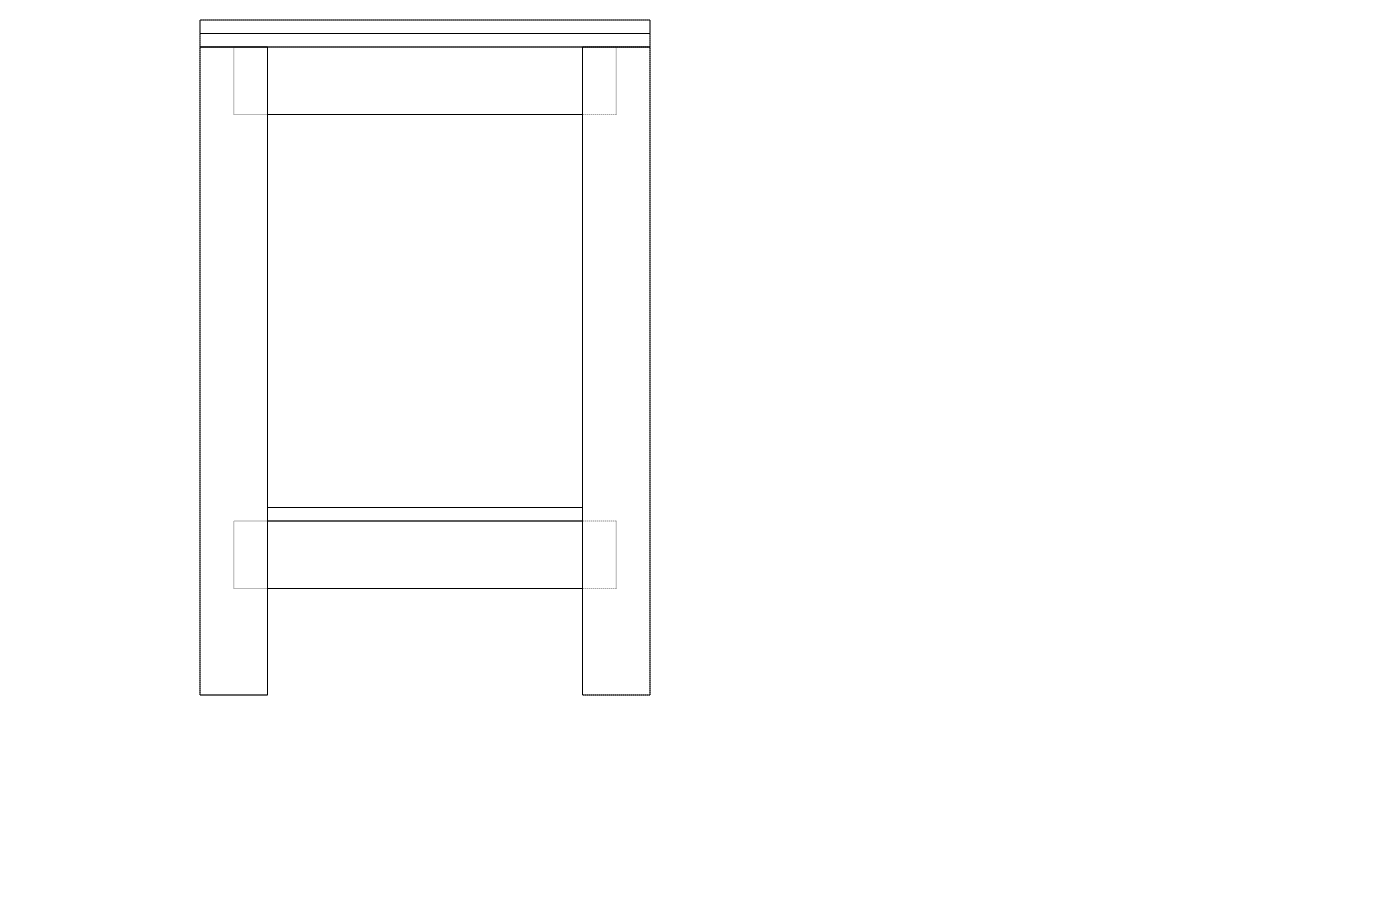
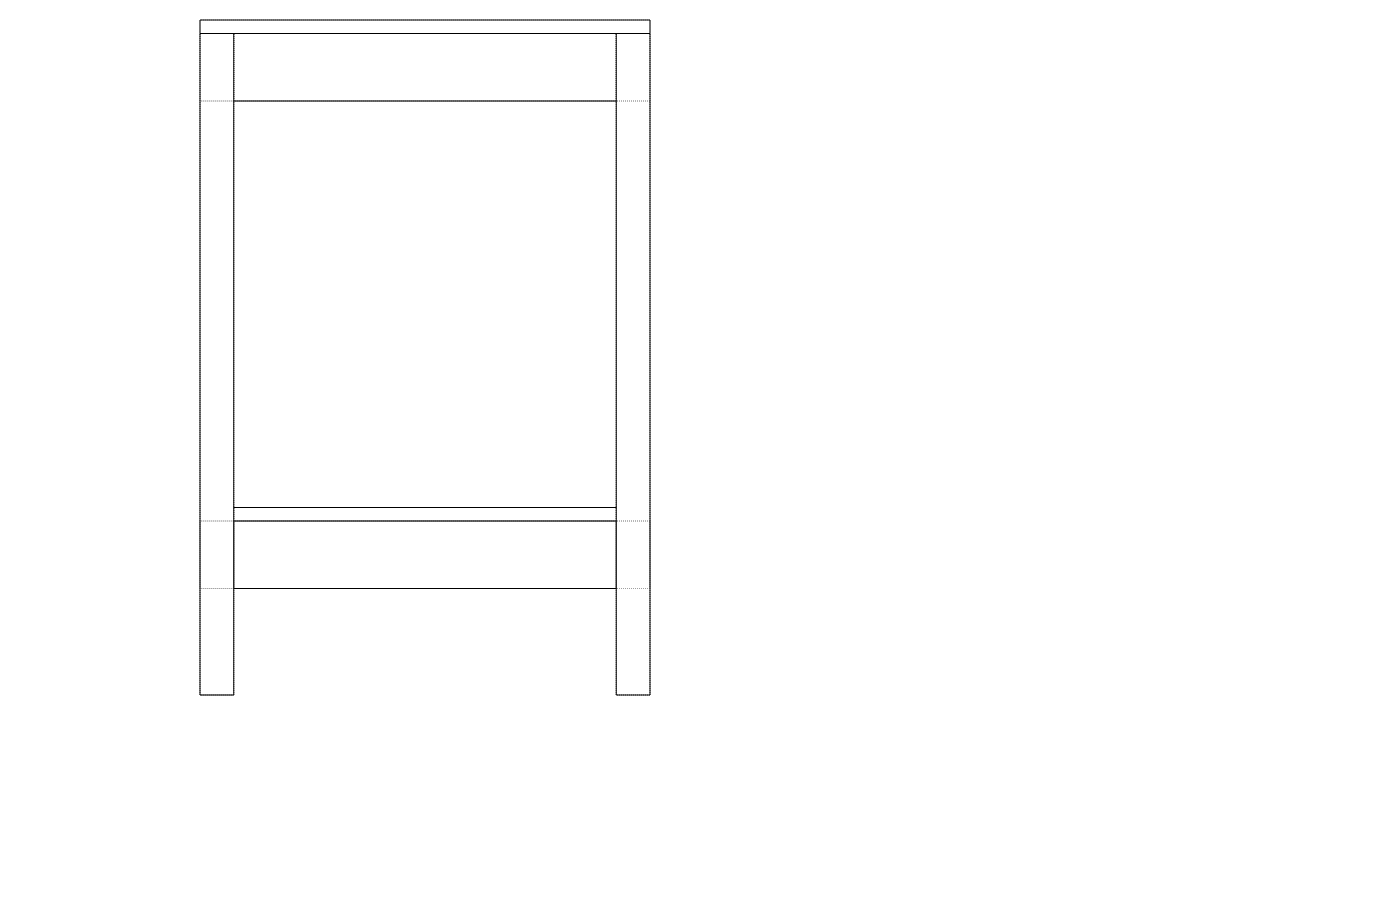
deploy: cc3b51746708132df6c7bf1f8e4cb72a0fdb2aba

diff --git a/pr-3/garage-workbench/index.html b/pr-3/garage-workbench/index.html
@@ -130,7 +130,7 @@ figure img { width: 100%; height: auto; display: block; background: #fff; }
 <body>
   <p class="back"><a href="../">← All Projects</a></p>
   <h2>Garage Workbench</h2>
-  <p class="meta">Generated 2026-05-01 09:24 UTC</p>
+  <p class="meta">Generated 2026-05-01 09:40 UTC</p>
   <div class="views">
     <figure>
       <figcaption>Isometric</figcaption>
@@ -168,11 +168,11 @@ figure img { width: 100%; height: auto; display: block; background: #fff; }
       <th class="num">Subtotal</th>
     </tr>
   </thead>
-  <tbody><tr><td>90×90 mm hardwood legs (e.g. Victorian ash) 900 mm</td><td class='num'>4</td><td>each</td><td class='num'>$12.50</td><td class='num'>$50.00</td></tr><tr><td>90×45 mm pine framing</td><td class='num'>9</td><td>meters</td><td class='num'>$4.20</td><td class='num'>$37.80</td></tr><tr><td>18 mm structural plywood 2400×1200</td><td class='num'>2</td><td>each</td><td class='num'>$68.00</td><td class='num'>$136.00</td></tr><tr><td>Pocket screws 50 mm box/100</td><td class='num'>1</td><td>box</td><td class='num'>$12.00</td><td class='num'>$12.00</td></tr><tr><td>PVA wood glue 1 L</td><td class='num'>1</td><td>each</td><td class='num'>$9.50</td><td class='num'>$9.50</td></tr><tr><td>Danish oil 500 mL</td><td class='num'>1</td><td>each</td><td class='num'>$18.00</td><td class='num'>$18.00</td></tr></tbody>
+  <tbody><tr><td>90×45 H3.2 structural pine (DAR) — legs, aprons, stretchers</td><td class='num'>13</td><td>meters</td><td class='num'>$4.20</td><td class='num'>$54.60</td></tr><tr><td>18mm F8 structural plywood 2400×1200 — top and shelf</td><td class='num'>2</td><td>sheets</td><td class='num'>$72.00</td><td class='num'>$144.00</td></tr><tr><td>M10×100 hex-head coach screws (pack 50)</td><td class='num'>1</td><td>pack</td><td class='num'>$38.00</td><td class='num'>$38.00</td></tr><tr><td>75mm construction screws (box 100) — top and shelf</td><td class='num'>1</td><td>box</td><td class='num'>$14.00</td><td class='num'>$14.00</td></tr><tr><td>PVA wood glue 1L</td><td class='num'>1</td><td>each</td><td class='num'>$12.00</td><td class='num'>$12.00</td></tr></tbody>
   <tfoot>
     <tr>
       <td colspan="4">Total</td>
-      <td class="num">$263.30</td>
+      <td class="num">$262.60</td>
     </tr>
   </tfoot>
 </table>
@@ -180,22 +180,22 @@ figure img { width: 100%; height: auto; display: block; background: #fff; }
 <div class="build-plan"><h2>Tools required</h2>
 <h3>Power tools</h3>
 <ul>
-<li>Circular saw or table saw (ripping plywood and dimensioning framing)</li>
-<li>Pocket-hole jig (e.g. Kreg K4 or K5) + drill/driver</li>
-<li>Random orbital sander (80 / 120 / 180 grit)</li>
-<li>Drill press or handheld drill (pilot holes, countersinks)</li>
+<li>Drill/driver (pilot holes and driving coach screws)</li>
+<li>Circular saw or jigsaw (cutting plywood sheet to size) — optional; a panel saw at the timber yard can do this</li>
 </ul>
 <h3>Hand tools</h3>
 <ul>
-<li>Tape measure, combination square, marking gauge</li>
-<li>Handsaw (cross-cut for short aprons if table saw unavailable)</li>
-<li>Mallet and chisels (trimming, fitting)</li>
-<li>Clamps — at least 4 × 600 mm F-clamps and 2 × 1200 mm bar clamps</li>
+<li>Handsaw (cross-cutting 90×45 framing to length — no table saw needed)</li>
+<li>Socket wrench with 16 mm or 17 mm socket (tightening M10 coach screws)</li>
+<li>Tape measure, combination square, pencil</li>
+<li>Clamps — 4× F-clamps or G-clamps (600 mm jaw sufficient)</li>
+<li>Hammer (for tapping joints square)</li>
 </ul>
 <h3>Jigs &amp; accessories</h3>
 <ul>
-<li>Kreg pocket-hole jig set for 38 mm and 45 mm stock</li>
-<li>Straight-edge / clamping guide for circular saw</li>
+<li>Straight-edge or clamping guide for circular saw (plywood cuts)</li>
+<li>6 mm HSS drill bit (pilot holes through legs)</li>
+<li>10 mm spade or brad-point bit (optional countersink for coach screw heads)</li>
 </ul>
 <hr />
 <h2>Cut list</h2>
@@ -215,11 +215,11 @@ figure img { width: 100%; height: auto; display: block; background: #fff; }
 <tr>
 <td>Leg</td>
 <td>4</td>
-<td>864</td>
+<td>882</td>
 <td>90</td>
-<td>90</td>
-<td>90×90 hardwood</td>
-<td>Square both ends</td>
+<td>45</td>
+<td>90×45 H3.2 pine</td>
+<td>90 mm face runs left-right</td>
 </tr>
 <tr>
 <td>Long apron</td>
@@ -228,16 +228,16 @@ figure img { width: 100%; height: auto; display: block; background: #fff; }
 <td>90</td>
 <td>45</td>
 <td>90×45 pine</td>
-<td>Front and back</td>
+<td>Front and back, top</td>
 </tr>
 <tr>
 <td>Short apron</td>
 <td>2</td>
-<td>420</td>
+<td>510</td>
 <td>90</td>
 <td>45</td>
 <td>90×45 pine</td>
-<td>Left and right ends</td>
+<td>Left and right ends, top</td>
 </tr>
 <tr>
 <td>Long stretcher</td>
@@ -246,94 +246,103 @@ figure img { width: 100%; height: auto; display: block; background: #fff; }
 <td>90</td>
 <td>45</td>
 <td>90×45 pine</td>
-<td>Front and back lower</td>
+<td>Front and back, lower</td>
 </tr>
 <tr>
 <td>Short stretcher</td>
 <td>2</td>
-<td>420</td>
+<td>510</td>
 <td>90</td>
 <td>45</td>
 <td>90×45 pine</td>
-<td>Left and right lower</td>
+<td>Left and right ends, lower</td>
 </tr>
 <tr>
-<td>Top layer (×2)</td>
-<td>2</td>
+<td>Top</td>
+<td>1</td>
 <td>1800</td>
 <td>600</td>
 <td>18</td>
-<td>18 mm ply</td>
+<td>18 mm F8 ply</td>
 <td>Work surface</td>
 </tr>
 <tr>
 <td>Lower shelf</td>
 <td>1</td>
 <td>1620</td>
-<td>420</td>
+<td>510</td>
 <td>18</td>
-<td>18 mm ply</td>
+<td>18 mm F8 ply</td>
 <td>Inset between legs</td>
 </tr>
 </tbody>
 </table>
-<p><strong>Framing total:</strong> ≈ 8.2 m of 90×45 mm pine (buy 9 m to allow cross-cutting waste)<br />
-<strong>Plywood:</strong> 2 sheets of 2400×1200×18 mm (top layers + shelf from offcuts)</p>
+<p><strong>Framing total:</strong> 12.0 m of 90×45 mm — buy 13 m to allow for end cuts.<br />
+Suggested lengths: 3× 4.8 m + 1× 3.0 m, or whatever combination covers 13 m with minimal waste.</p>
+<p><strong>Plywood:</strong> 2 sheets of 2400×1200×18 mm F8 structural ply.<br />
+Sheet 1 → top (1800×600). Sheet 2 → shelf (1620×510) with offcut to spare.</p>
 <hr />
 <h2>Build steps</h2>
 <ol>
 <li>
-<p><strong>Mill stock</strong> — Square and face all leg stock to 90×90 mm. If buying PAR pine for aprons/stretchers verify 90×45 finished; adjust cut list if dressed size differs.</p>
+<p><strong>Buy dressed stock</strong> — Purchase 90×45 H3.2 DAR (dressed all round) pine. Check each length for straightness; sight down the edge and reject anything badly bowed or twisted. All pieces come at finished size — no planing needed.</p>
 </li>
 <li>
-<p><strong>Cut legs to length</strong> — Cross-cut all 4 legs to 864 mm. Mark the top and bottom of each leg before cutting so grain stays consistent.</p>
+<p><strong>Cut legs to length</strong> — Cross-cut 4 legs at 882 mm using a handsaw. Mark a square line around all four faces with a combination square before cutting. Bundle the 4 legs and check they are the same length.</p>
 </li>
 <li>
-<p><strong>Cut aprons and stretchers</strong> — Rip/cross-cut 90×45 pine to:</p>
+<p><strong>Cut aprons and stretchers</strong> — Cross-cut the remaining 90×45 to:</p>
 </li>
-<li>2 × 1620 mm (long aprons)</li>
-<li>2 × 420 mm (short aprons)</li>
-<li>2 × 1620 mm (long stretchers)</li>
+<li>2× 1620 mm (long aprons)</li>
+<li>2× 510 mm (short aprons)</li>
+<li>2× 1620 mm (long stretchers)</li>
+<li>2× 510 mm (short stretchers)</li>
+</ol>
+<p>Label each piece immediately — aprons and stretchers are the same length per pair but live at different heights.</p>
+<ol>
+<li><strong>Mark the leg joint positions</strong> — On each leg, mark two lines with a square:</li>
+<li>Apron shoulder: 90 mm down from the top (the apron top face is flush with the leg top).</li>
 <li>
-<p>2 × 420 mm (short stretchers)<br />
-   Mark each piece before cutting — aprons and stretchers are identical in length but live at different heights.</p>
-</li>
-<li>
-<p><strong>Drill pocket holes</strong> — Using the Kreg jig set for 45 mm stock, drill 2 pocket holes in each end of every apron and stretcher. Drill on the face that will be hidden (inside face).</p>
-</li>
-<li>
-<p><strong>Dry fit end frames</strong> — Clamp one short apron between two legs (flush with top of legs, inside faces) and one short stretcher between the same pair of legs at 160 mm from the floor (so stretcher top face = 250 mm shelf height − 90 mm stretcher height = 160 mm from floor). Confirm the assembly is square; measure diagonals.</p>
-</li>
-<li>
-<p><strong>Glue and screw end frames</strong> — Apply PVA to the mating faces of each apron and stretcher end. Drive 2 pocket screws per joint. Clamp and allow to cure 30 min before disturbing. Build both end frames.</p>
+<p>Stretcher shoulder: 142 mm up from the bottom (stretcher bottom face = 142 mm; top face = 232 mm; shelf top = 250 mm).</p>
 </li>
 <li>
-<p><strong>Assemble base frame</strong> — Stand the two end frames upright. Insert the two long aprons at the top and the two long stretchers at the lower position. Apply glue to all mating faces, drive pocket screws, and check for square. Use bar clamps to hold while screwing.</p>
+<p><strong>Build the end frames</strong> — For each of the two end frames (left and right):</p>
+</li>
+</ol>
+<p>a. Lay two legs on the floor parallel, 510 mm apart (inside-face to inside-face).</p>
+<p>b. Clamp a short apron across the top between the legs, top faces flush, inside face flush with leg inside face. Check the assembly is square by measuring both diagonals — they should be equal.</p>
+<p>c. Pre-drill a 6 mm pilot hole through the leg face into each end of the apron. Drive 2× M10×100 coach screws per end with a socket wrench. Apply PVA to the mating surfaces before driving the first screw.</p>
+<p>d. Repeat for the short stretcher at the lower position. Measure from the floor mark (142 mm) to position it.</p>
+<p>e. Stand the end frame up and check it sits flat. Build the second end frame identically.</p>
+<ol>
+<li><strong>Connect the end frames</strong> — Stand both end frames upright 1620 mm apart (inside-face to inside-face). Temporarily clamp or prop them vertical.</li>
+</ol>
+<p>a. Fit the two long aprons across the top front and back. Clamp in position, check the frame is square (measure diagonals across the top), then pre-drill and drive 2× coach screws through each leg into the apron end. Apply PVA first.</p>
+<p>b. Fit the two long stretchers at the lower position and fasten the same way.</p>
+<p>c. Once all four long rails are in, the frame should be rigid. Recheck square and adjust if needed (a diagonal tap with a hammer usually corrects a few mm).</p>
+<ol>
+<li>
+<p><strong>Cut plywood</strong> — From sheet 1, cut the top: 1800×600 mm. From sheet 2, cut the shelf: 1620×510 mm. A circular saw with a clamped straight-edge gives a clean straight cut; alternatively ask the timber yard to rip the sheets for you.</p>
 </li>
 <li>
-<p><strong>Cut plywood</strong> — From the first 2400×1200 mm sheet, rip 2 pieces at 600 mm wide and cross-cut each to 1800 mm (the two top layers). From offcuts or the second sheet, cut the shelf at 1620 × 420 mm.</p>
+<p><strong>Attach the top</strong> — Place the plywood top on the frame, centred side-to-side. Drive 75 mm construction screws at an angle through the top edge of each apron up into the underside of the plywood — 3 screws per long apron and 2 per short apron. No countersink needed; the screw head pulls into pine.</p>
 </li>
 <li>
-<p><strong>Laminate top</strong> — Spread a thin, even coat of PVA over the entire face of the first top layer. Lay the second layer on top with edges flush. Clamp every 200–300 mm with F-clamps. Allow full overnight cure before removing clamps.</p>
+<p><strong>Fit the shelf</strong> — Drop the shelf panel onto the stretchers. Drive 2× 75 mm screws per stretcher through the shelf into the stretcher top face to hold it captive.</p>
 </li>
 <li>
-<p><strong>Attach top</strong> — Flip the frame upside-down onto the underside of the laminated top. Position so the top overhangs equally front and back. Drive 50 mm screws through the top edge of each apron up into the plywood underside (3 screws per long apron, 2 per short apron). No countersink needed — screw head pulls into pine.</p>
-</li>
-<li>
-<p><strong>Fit shelf</strong> — Drop the shelf panel onto the stretchers. Check it sits flush. Drive 2 screws per stretcher through the shelf into the stretcher top face to hold it captive.</p>
-</li>
-<li>
-<p><strong>Sand and finish</strong> — Sand all exposed surfaces with 80, then 120, then 180 grit. The work surface can be left bare (plywood top will harden with use) or finished with boiled linseed oil (2 coats) for moisture resistance. Wipe down legs and frame with a single coat of Danish oil.</p>
+<p><strong>Finish</strong> — The H3.2 treated pine needs no additional finish for a garage environment. Round any sharp corners with a few passes of 80-grit sandpaper. The plywood top can be left bare and will harden with use, or apply 2 coats of boiled linseed oil for moisture resistance.</p>
 </li>
 </ol>
 <hr />
 <h2>Notes</h2>
 <ul>
-<li><strong>Assembly order:</strong> Build end frames first so you have two rigid sub-assemblies to connect — this prevents racking during the final frame assembly.</li>
-<li><strong>Square checks:</strong> After every glue-up, measure both diagonals and tap the frame to equal before the glue sets. A 2 mm diagonal discrepancy is acceptable; over 5 mm will cause the bench to rock.</li>
-<li><strong>Grain direction:</strong> Orient both plywood top layers with face grain running along the 1800 mm length (stronger in bending, better appearance).</li>
-<li><strong>Leg-to-floor:</strong> If the garage floor is uneven, add levelling feet (M10 threaded inserts + adjustable foot pads) in the leg bottoms.</li>
-<li><strong>Future vice:</strong> A face vice bolts to the left front apron. Leave the front face of the left leg clear of obstruction so a vice jaw can be fitted flush.</li>
+<li><strong>No facing / milling:</strong> DAR 90×45 is sold at finished size. Just cut to length.</li>
+<li><strong>Assembly order:</strong> Build end frames on the floor first — it is far easier to keep joints square when the pieces are lying flat. Stand them up only when both frames are complete.</li>
+<li><strong>Square check:</strong> After every glue-and-screw step, measure both diagonals. Equal diagonals = square frame. A 2 mm difference is acceptable; correct anything over 4 mm by tapping a corner before the glue sets.</li>
+<li><strong>Coach screw tips:</strong> Always pre-drill to prevent splitting. Hold the screw vertical and snug it up with the socket wrench — do not over-tighten or you will crush the pine fibre. Tighten once more the next day after the PVA has cured.</li>
+<li><strong>Leg orientation:</strong> The 90 mm face of each leg faces left-right (visible from the front), the 45 mm face goes front-to-back. This keeps the bench shallow and saves material while maintaining good load-bearing capacity.</li>
+<li><strong>Future upgrades:</strong> A face vice (Record #52 or similar) bolts to the left-end apron. The 90 mm apron face provides a good clamping surface. Peg-board or plywood tool storage can be screwed directly to the back apron.</li>
 </ul></div>
 </body>
 </html>

diff --git a/pr-3/index.html b/pr-3/index.html
@@ -42,7 +42,7 @@ h2 { font-size: 1.3rem; color: #c8a96e; margin-bottom: 1rem; }
 </head>
 <body>
   <h1>Woodworking Projects</h1>
-  <p class="meta">Generated 2026-05-01 09:24 UTC &mdash; 2 project(s)</p>
+  <p class="meta">Generated 2026-05-01 09:40 UTC &mdash; 2 project(s)</p>
   <div class="grid">
     <a class="card" href="firewood-shelter/">
       <img src="firewood-shelter/preview.png" alt="Firewood Shelter">

diff --git a/pr-3/firewood-shelter/index.html b/pr-3/firewood-shelter/index.html
@@ -130,7 +130,7 @@ figure img { width: 100%; height: auto; display: block; background: #fff; }
 <body>
   <p class="back"><a href="../">← All Projects</a></p>
   <h2>Firewood Shelter</h2>
-  <p class="meta">Generated 2026-05-01 09:24 UTC</p>
+  <p class="meta">Generated 2026-05-01 09:40 UTC</p>
   <div class="views">
     <figure>
       <figcaption>Isometric</figcaption>
